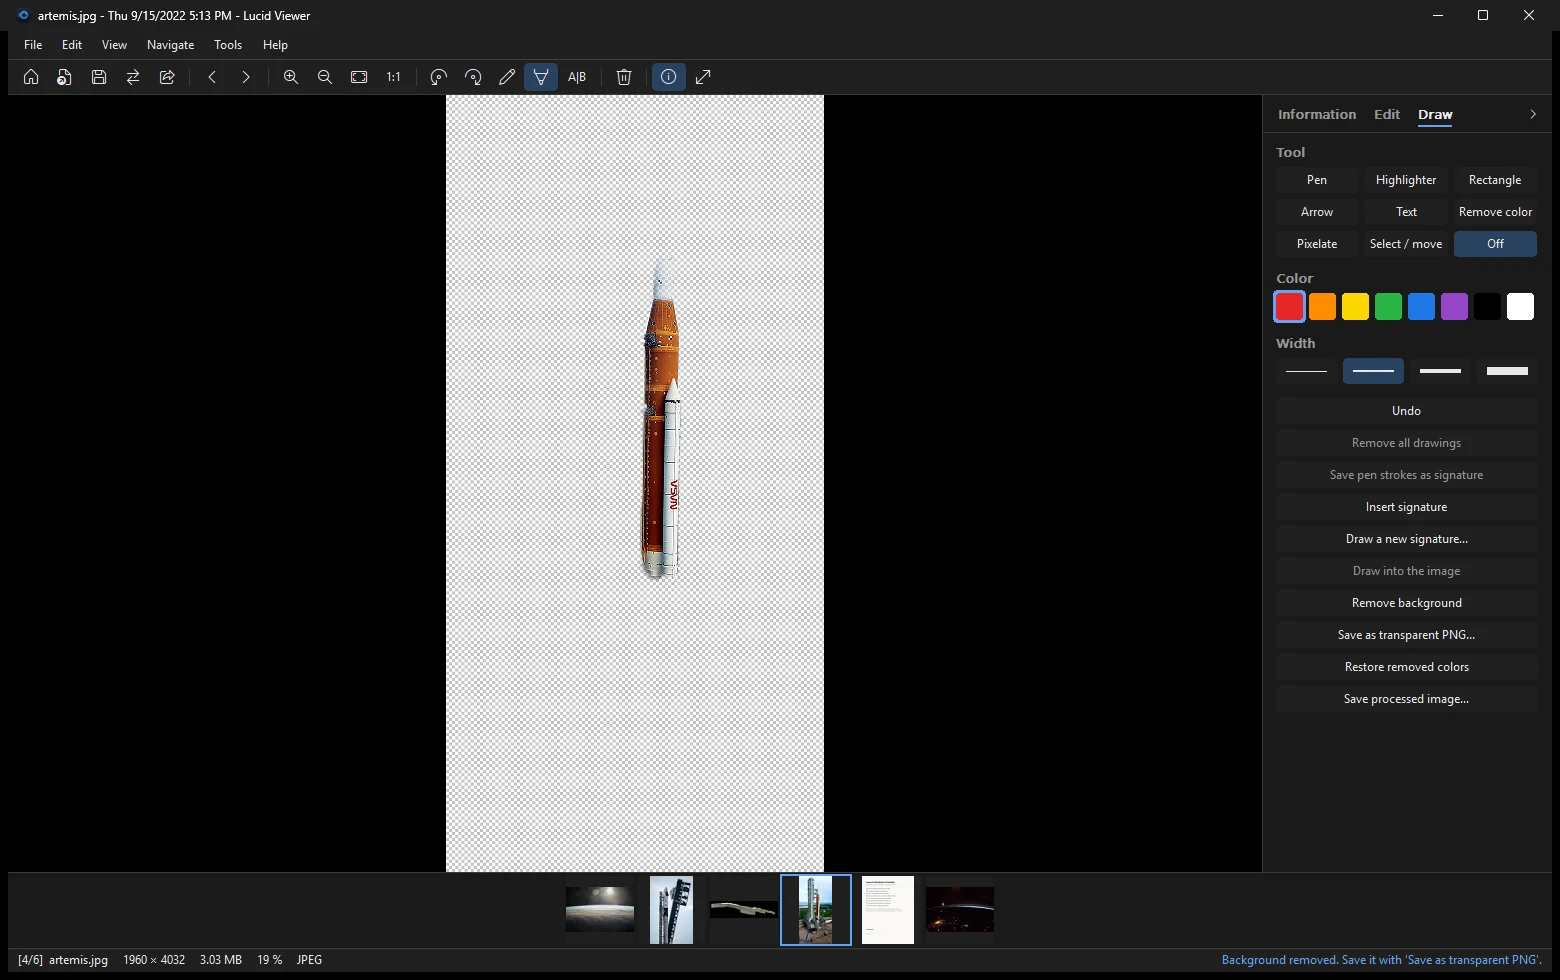
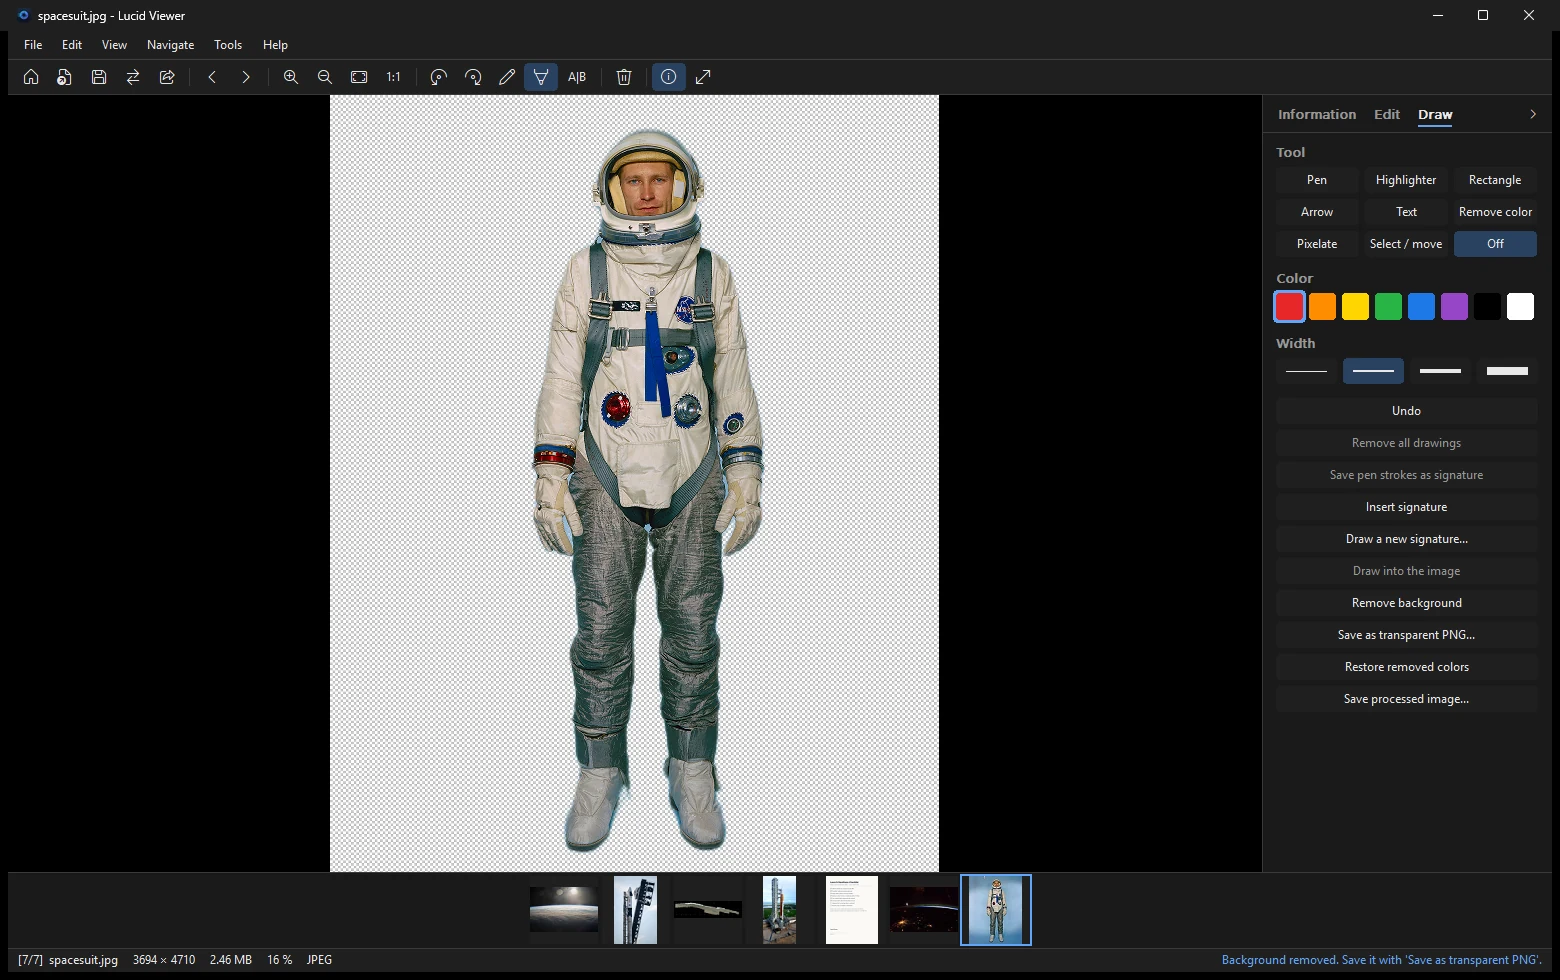
README: screenshot tool and OCR screenshots, background removal shown on a person

Changed region(s): [[0.1846, 0.0918, 0.6769, 0.9796], [0.0308, 0.949, 0.2154, 1.0], [0.0308, 0.0, 0.1846, 0.0306]]

diff --git a/README.md b/README.md
@@ -106,15 +106,19 @@ resize it before it is written into the image.
 One click removes the background with an AI model that runs on your PC (U²-Net, downloaded once when you first use it or
 during setup). Save the result as a transparent PNG. Nothing is uploaded.
 
-<p align="center"><img src="docs/images/remove-bg.webp" width="900" alt="Rocket with the background removed, shown on a checkerboard"></p>
+<p align="center"><img src="docs/images/remove-bg.webp" width="900" alt="A person in a spacesuit with the background removed, shown on a checkerboard"></p>
 
 ### Copy text (OCR)
 <kbd>Ctrl</kbd>+<kbd>Shift</kbd>+<kbd>T</kbd> copies all text of the photo. In the screenshot tool every word is marked and you
 select what you need with the mouse. Lucid Viewer uses the text recognition built into Windows, in the language of your keyboard.
 
+<p align="center"><img src="docs/images/ocr.webp" width="800" alt="Every recognized word is framed, two lines are selected for copying"></p>
+
 ### Screenshot tool
 With the screenshot tool switched on (setup or Tools menu), <kbd>PrtScn</kbd> freezes the screen: drag a region or click a window, draw, pixelate, read the text, then copy or save.
 A magnifier shows the exact pixel and its color. <kbd>Shift</kbd>+<kbd>PrtScn</kbd> copies the text of a region directly.
+
+<p align="center"><img src="docs/images/screenshot-tool.webp" width="900" alt="Screenshot tool with a selected region, an arrow drawn into it and the tool bars"></p>
 
 ### Convert anywhere
 Right-click photos in Explorer → **Convert to** → JPG, PNG, WebP, HEIC, PDF, ICO and more, also resized or without metadata.
@@ -191,7 +195,7 @@ Thanks to David Kleiner, who wrote JPEGView, to Kevin M ([sylikc](https://github
 to [qbnu](https://github.com/qbnu/jpegview) for the updated codecs, and to all JPEGView translators and contributors.
 The libraries Lucid Viewer uses are listed in [THIRD_PARTY_NOTICES.md](THIRD_PARTY_NOTICES.md).
 
-The photos in this README are by NASA ([images.nasa.gov](https://images.nasa.gov)), not copyrighted.
+The photos in this README are by NASA ([images.nasa.gov](https://images.nasa.gov)), not copyrighted. NASA does not endorse Lucid Viewer.
 
 ## License
 
